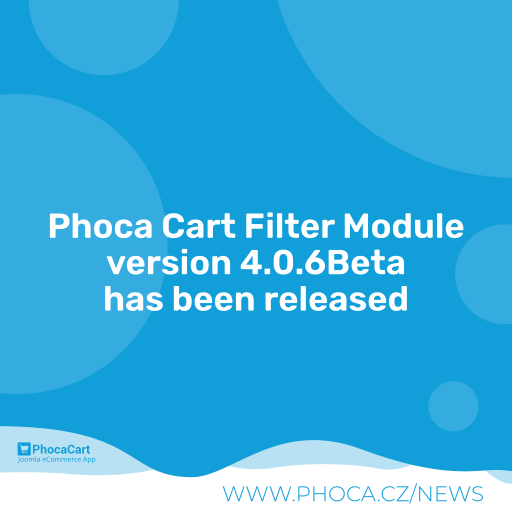
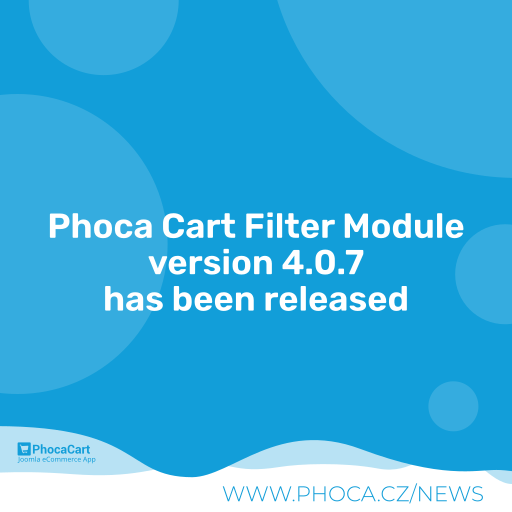
4.0.7

Changed region(s): [[0.1875, 0.4688, 0.8125, 0.5625]]

diff --git a/README.MD b/README.MD
@@ -60,7 +60,7 @@ Phoca Cart Filter Module - a Joomla! CMS module which displays filtering form - 
 
 ## Version (Joomla! 4.x)
 
-4.0.6Beta
+4.0.7
 
 
 
